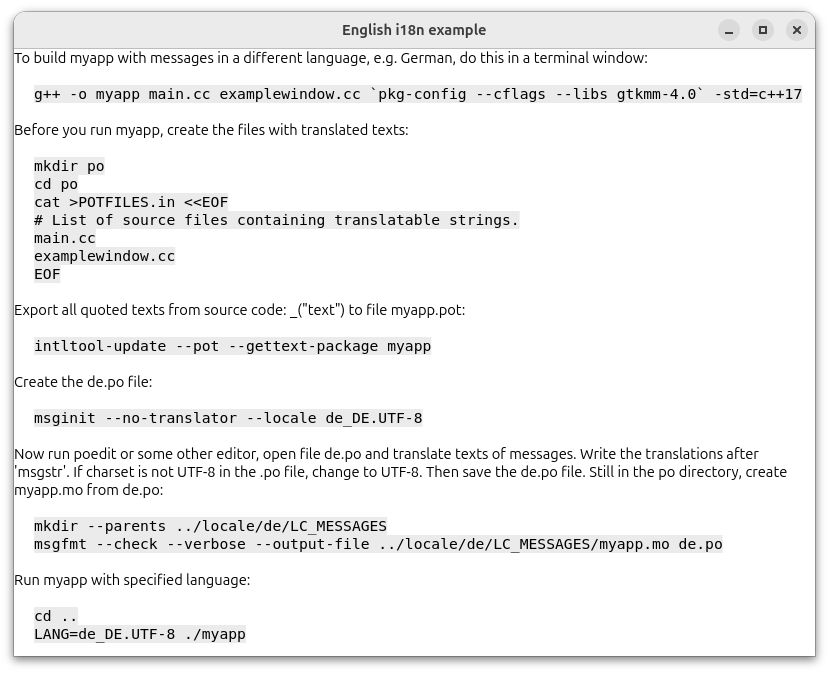
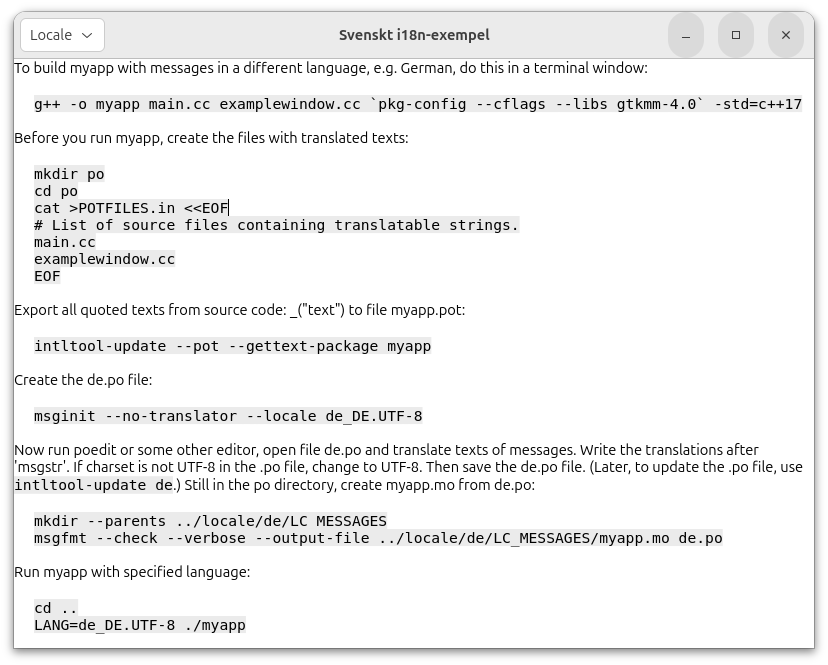
book/i18n example: Show how the program can set the locale
* docs/tutorial/C/figures/i18n.png:
* docs/tutorial/C/index-in.docbook: Small updates.
* examples/book/i18n/examplewindow.[cc|h]:
* examples/book/i18n/main.cc: Show how to set the locale, specified
in a configuration file.

Fixes #25

diff --git a/examples/book/i18n/examplewindow.cc b/examples/book/i18n/examplewindow.cc
@@ -15,12 +15,34 @@
  */
 
 #include "examplewindow.h"
+#include <fstream>
+#include <iostream>
 #include <glibmm/i18n.h>
+
+const std::string ExampleWindow::config_file_name("appconfig.cfg");
 
 ExampleWindow::ExampleWindow()
 {
   set_title(_("English i18n example"));
   set_default_size(500, 300);
+
+  // Header bar
+  m_HeaderBar.set_show_title_buttons(true);
+  m_HeaderBar.pack_start(m_DropDown);
+
+  // Set headerbar as titlebar
+  set_titlebar(m_HeaderBar);
+
+  // Fill the dropdown
+  const std::vector<Glib::ustring> strings{
+    "Locale", "en_US.UTF-8", "de_DE.UTF-8", "cs_CZ.UTF-8", "sv_SE.UTF-8"
+  };
+  m_StringList = Gtk::StringList::create(strings);
+  m_DropDown.set_model(m_StringList);
+  m_DropDown.set_selected(0);
+
+  m_DropDown.property_selected().signal_changed().connect(
+    sigc::mem_fun(*this, &ExampleWindow::on_dropdown_changed));
 
   // Add the TextView, inside a ScrolledWindow.
   m_ScrolledWindow.set_child(m_TextView);
@@ -33,6 +55,25 @@ ExampleWindow::ExampleWindow()
 
 ExampleWindow::~ExampleWindow()
 {
+}
+
+void ExampleWindow::on_dropdown_changed()
+{
+  const auto selected = m_DropDown.get_selected();
+  const auto text = m_StringList->get_string(selected);
+  std::cout << "DropDown changed: " << text << std::endl;
+  if (selected > 0)
+  {
+    std::ofstream myfile;
+    myfile.open(config_file_name);
+    if (myfile.is_open())
+    {
+      myfile << text << std::endl;
+      myfile.close();
+    }
+    else
+      std::cout << "Could not open file " << config_file_name << std::endl;
+  }
 }
 
 void ExampleWindow::fill_text_tag_table()
@@ -88,8 +129,12 @@ void ExampleWindow::fill_buffer()
     "Now run poedit or some other editor, open file de.po and translate texts of messages."
     " Write the translations after 'msgstr'."
     " If charset is not UTF-8 in the .po file, change to UTF-8."
-    " Then save the de.po file. Still in the po directory, create myapp.mo from de.po:\n\n",
+    " Then save the de.po file. (Later, to update the .po file, use ",
     "plain-text");
+  iter = m_refTextBuffer->insert_with_tag(iter,
+    "intltool-update de", "script");
+  iter = m_refTextBuffer->insert_with_tag(iter,
+    ".) Still in the po directory, create myapp.mo from de.po:\n\n", "plain-text");
   iter = m_refTextBuffer->insert_with_tag(iter,
     "mkdir --parents ../locale/de/LC_MESSAGES\n"
     "msgfmt --check --verbose --output-file ../locale/de/LC_MESSAGES/myapp.mo de.po\n\n",

diff --git a/examples/book/i18n/main.cc b/examples/book/i18n/main.cc
@@ -15,7 +15,11 @@
  */
 
 #include "examplewindow.h"
+#include <fstream>
 #include <iostream>
+#include <string>
+#include <locale>
+#include <clocale>
 #include <glibmm/i18n.h>
 
 const char* GETTEXT_PACKAGE = "myapp";
@@ -23,17 +27,40 @@ const char* PROGRAMNAME_LOCALEDIR = "locale";
 
 int main(int argc, char* argv[])
 {
+  std::ifstream myfile(ExampleWindow::config_file_name);
+  if (myfile.is_open())
+  {
+    // Set the configured locale.
+    std::string line;
+    std::getline(myfile, line);
+    std::cout <<"Preference settings: "<< line << std::endl;
+    // Don't use the user's preferred locale.
+    Glib::set_init_to_users_preferred_locale(false);
+    Glib::setenv("LANG", line, true);
+    std::cout << "getenv(LANG)= " << Glib::getenv("LANG") << '\n';
+    std::setlocale(LC_ALL, line.c_str());
+    myfile.close();
+  }
+  // If the configuration file does not exist, the user's preferred locale is used.
+
   bindtextdomain(GETTEXT_PACKAGE, PROGRAMNAME_LOCALEDIR);
   bind_textdomain_codeset(GETTEXT_PACKAGE, "UTF-8");
   textdomain(GETTEXT_PACKAGE);
 
-  // Gtk::Application::create() sets the locale of C and C++ code
-  // to the user's locale. If the user's locale supports UTF-8,
-  // the following German text can then be printed.
+  // Gtk::Application::create() calls Glib::init(), which sets the C++ global locale.
   auto app = Gtk::Application::create("org.gtkmm.example");
 
-  std::cout << Glib::ustring(_("English App is Running\n"));
-  std::cout << Glib::ustring("Force unicode German text: Gr\xC3\xBC\xC3\x9F Gott\n");
+  // On startup, when std::cout is created, the global locale is the "C" locale,
+  // AKA the classic locale.
+  std::cout << _("English App is Running") << ", "
+    << std::cout.getloc().name() << " locale: " << 1234.56 << '\n';
+
+  // Use the new global locale for future output to std::cout.
+  std::cout.imbue(std::locale());
+
+  std::cout << _("English App is Running") << ", "
+    << std::cout.getloc().name() << " locale: " << 1234.56 << '\n';
+  std::cout << "Force unicode German text: Gr\xC3\xBC\xC3\x9F Gott\n";
 
   // Shows the window and returns when it is closed.
   return app->make_window_and_run<ExampleWindow>(argc, argv);

diff --git a/examples/book/i18n/examplewindow.h b/examples/book/i18n/examplewindow.h
@@ -25,14 +25,22 @@ public:
   ExampleWindow();
   ~ExampleWindow() override;
 
+  // Configuration file, showing configured locale.
+  static const std::string config_file_name;
+
 protected:
   void fill_text_tag_table();
   void fill_buffer();
 
-  // Child widgets:
+  void on_dropdown_changed();
+
+  // Child widgets
+  Gtk::HeaderBar m_HeaderBar;
+  Gtk::DropDown m_DropDown;
   Gtk::ScrolledWindow m_ScrolledWindow;
   Gtk::TextView m_TextView;
 
+  Glib::RefPtr<Gtk::StringList> m_StringList;
   Glib::RefPtr<Gtk::TextTagTable> m_refTextTagTable;
   Glib::RefPtr<Gtk::TextBuffer> m_refTextBuffer;
 };
